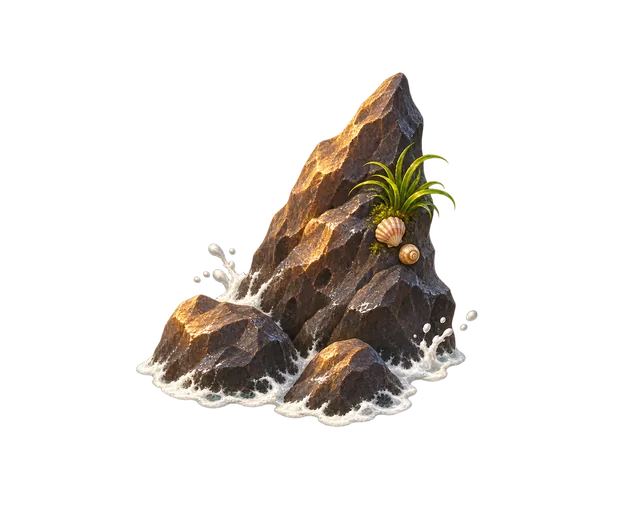
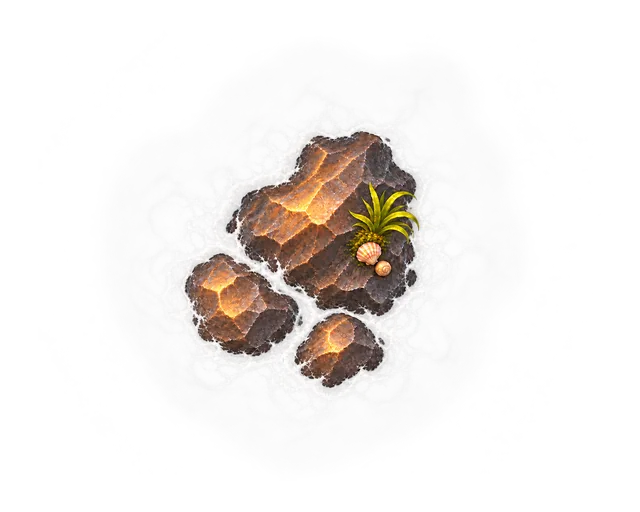
Récifs vue zénithale (écume peinte, effet de vague CSS retiré) ; oscillation 3D des cartouches sur l'axe Y

Changed region(s): [[0.2188, 0.125, 0.75, 0.8438]]

diff --git a/index.html b/index.html
@@ -151,6 +151,11 @@ img{max-width:100%;-webkit-user-drag:none;user-select:none;pointer-events:none}
 /* Inversé : la vague naît à la plage, claire, et part mourir vers le large */
 @keyframes shore{0%{transform:translate(-50%,-50%) scale(1.01);opacity:0}12%{opacity:.8}70%{opacity:.22}100%{transform:translate(-50%,-50%) scale(1.26);opacity:0}}
 .isle .land{z-index:2}.isle .lbl{z-index:4}/* au-dessus du pion navire (3) : la barque passe sous les cartouches */
+/* Légère oscillation 3D des cartouches sur l'axe Y (coupée d'office en animations réduites) */
+.isle .lbl,.coastport .lbl{perspective:420px}
+.isle .lbl b,.coastport .lbl b{animation:lblsway 5.5s ease-in-out infinite alternate}
+.isle:nth-child(odd) .lbl b{animation-delay:-2.7s;animation-duration:6.5s}
+@keyframes lblsway{from{transform:rotateY(-5deg)}to{transform:rotateY(5deg)}}
 /* La vague qui s'écrase : un voile d'écume PAR-DESSUS la frange basse de l'île, qui monte sur la plage
    quand l'onde touche la côte, puis s'estompe vite */
 .isle .wash{position:absolute;left:50%;top:44%;width:190px;height:190px;z-index:3;background:#fbfffd;
@@ -1070,11 +1075,8 @@ button.medal{display:block;padding:0;cursor:pointer}
 /* ---------- 1.5 : océan WebGL, îles sous l'orage, voiles flous, boutons, mouettes ---------- */
 .sea-gl{position:absolute;inset:0;width:100%;height:100%;display:block;pointer-events:none}
 .seagl .ocean{visibility:hidden}
-/* Récifs décoratifs : rochers qui dépassent de l'eau sur les bords de la carte, sous la teinte du jour et les cartouches.
-   Même écume animée que les îles, masquée par la silhouette du rocher, sur sa partie basse uniquement. */
+/* Récifs décoratifs (vue zénithale, écume peinte dans l'image) : posés sur les bords, sous la teinte du jour et les cartouches */
 .reef{position:absolute;transform:translate(-50%,-50%);pointer-events:none}
-.reef img{display:block;width:100%;height:100%}
-.reef::after{content:"";position:absolute;left:50%;top:50%;width:100%;height:100%;transform:translate(-50%,-50%);background:#fbfffd;-webkit-mask:var(--rimg) center/contain no-repeat,linear-gradient(180deg,transparent 52%,#000 76%);-webkit-mask-composite:source-in;mask:var(--rimg) center/contain no-repeat,linear-gradient(180deg,transparent 52%,#000 76%);mask-composite:intersect;filter:blur(3px);opacity:0;animation:shore 7s linear infinite;animation-delay:var(--rd,0s)}
 .reef.m{transform:translate(-50%,-50%) scaleX(-1)}
 .mstorm{position:absolute;width:0;height:0;pointer-events:none;z-index:2}
 .mstorm .fogpatch,.mstorm .bolt{max-width:none}
@@ -5849,7 +5851,7 @@ function renderMap() {
       <div class="coast" style="top:${CT}px;height:${CHF}px" aria-hidden="true"><img src="${IMG('port-coast')}" alt=""></div>
       <button class="coastport${S.port.includes('phare') ? ' phare' : ''}" style="left:${Math.round(CW * .6)}px;top:${Math.round(CT + CH * .26)}px;width:${Math.round(CW * .4)}px;height:${Math.round(CH * .48)}px" data-a="portisle" aria-label="Port d’attache"><span class="lbl"><b><span class="ti">Port d’attache</span></b></span></button>
       <button class="lair${krak ? ' won' : ''}" style="left:${W * .76}px;top:96px" data-a="lair" aria-label="${krak ? 'Repaire du Kraken' : 'Une île cachée dans le brouillard'}"><img src="${IMG('isle-kraken')}" alt="">${krak ? '<span class="lbl"><b><span class="ti">Repaire du Kraken</span></b></span>' : ''}</button>
-      ${[[93, 300, 'a', 86, 0], [6.5, 710, 'b', 66, 1], [93, 1160, 'c', 118, 0], [6, 1520, 'a', 74, 1], [94, 1830, 'b', 58, 0]].map(([x, y, f, w, m], k) => `<span class="reef${m ? ' m' : ''}" style="left:${W * x / 100}px;top:${y}px;width:${w}px;height:${Math.round(w * { a: .8, b: 1, c: .5 }[f])}px;--rimg:url(${IMG('deco-reef-' + f)});--rd:-${(k * 2.3 % 7).toFixed(1)}s" aria-hidden="true"><img src="${IMG('deco-reef-' + f)}" alt=""></span>`).join('')}
+      ${[[93, 300, 'a', 100, 0], [6.5, 710, 'b', 78, 1], [93, 1160, 'c', 134, 0], [6, 1520, 'a', 86, 1], [94, 1830, 'b', 68, 0]].map(([x, y, f, w, m]) => `<img class="reef${m ? ' m' : ''}" src="${IMG('deco-reef-' + f)}" alt="" style="left:${W * x / 100}px;top:${y}px;width:${w}px">`).join('')}
       <div class="mers" style="top:24px">Mers inexplorées</div>
       ${isleHTML}${fog}
       <div class="ripple" aria-hidden="true" style="left:${shx}px;top:${shy}px;--srot:${srot}deg;--simg:url(${IMG((paintDef()[4] || 'ship-skin-origine') + '-top')})"><i></i><i></i><span class="wk"><span class="bow"></span><span class="tr"></span><span class="tr t2"></span></span></div>

diff --git a/src/app.html b/src/app.html
@@ -122,6 +122,11 @@ img{max-width:100%;-webkit-user-drag:none;user-select:none;pointer-events:none}
 /* Inversé : la vague naît à la plage, claire, et part mourir vers le large */
 @keyframes shore{0%{transform:translate(-50%,-50%) scale(1.01);opacity:0}12%{opacity:.8}70%{opacity:.22}100%{transform:translate(-50%,-50%) scale(1.26);opacity:0}}
 .isle .land{z-index:2}.isle .lbl{z-index:4}/* au-dessus du pion navire (3) : la barque passe sous les cartouches */
+/* Légère oscillation 3D des cartouches sur l'axe Y (coupée d'office en animations réduites) */
+.isle .lbl,.coastport .lbl{perspective:420px}
+.isle .lbl b,.coastport .lbl b{animation:lblsway 5.5s ease-in-out infinite alternate}
+.isle:nth-child(odd) .lbl b{animation-delay:-2.7s;animation-duration:6.5s}
+@keyframes lblsway{from{transform:rotateY(-5deg)}to{transform:rotateY(5deg)}}
 /* La vague qui s'écrase : un voile d'écume PAR-DESSUS la frange basse de l'île, qui monte sur la plage
    quand l'onde touche la côte, puis s'estompe vite */
 .isle .wash{position:absolute;left:50%;top:44%;width:190px;height:190px;z-index:3;background:#fbfffd;
@@ -1041,11 +1046,8 @@ button.medal{display:block;padding:0;cursor:pointer}
 /* ---------- 1.5 : océan WebGL, îles sous l'orage, voiles flous, boutons, mouettes ---------- */
 .sea-gl{position:absolute;inset:0;width:100%;height:100%;display:block;pointer-events:none}
 .seagl .ocean{visibility:hidden}
-/* Récifs décoratifs : rochers qui dépassent de l'eau sur les bords de la carte, sous la teinte du jour et les cartouches.
-   Même écume animée que les îles, masquée par la silhouette du rocher, sur sa partie basse uniquement. */
+/* Récifs décoratifs (vue zénithale, écume peinte dans l'image) : posés sur les bords, sous la teinte du jour et les cartouches */
 .reef{position:absolute;transform:translate(-50%,-50%);pointer-events:none}
-.reef img{display:block;width:100%;height:100%}
-.reef::after{content:"";position:absolute;left:50%;top:50%;width:100%;height:100%;transform:translate(-50%,-50%);background:#fbfffd;-webkit-mask:var(--rimg) center/contain no-repeat,linear-gradient(180deg,transparent 52%,#000 76%);-webkit-mask-composite:source-in;mask:var(--rimg) center/contain no-repeat,linear-gradient(180deg,transparent 52%,#000 76%);mask-composite:intersect;filter:blur(3px);opacity:0;animation:shore 7s linear infinite;animation-delay:var(--rd,0s)}
 .reef.m{transform:translate(-50%,-50%) scaleX(-1)}
 .mstorm{position:absolute;width:0;height:0;pointer-events:none;z-index:2}
 .mstorm .fogpatch,.mstorm .bolt{max-width:none}
@@ -5820,7 +5822,7 @@ function renderMap() {
       <div class="coast" style="top:${CT}px;height:${CHF}px" aria-hidden="true"><img src="${IMG('port-coast')}" alt=""></div>
       <button class="coastport${S.port.includes('phare') ? ' phare' : ''}" style="left:${Math.round(CW * .6)}px;top:${Math.round(CT + CH * .26)}px;width:${Math.round(CW * .4)}px;height:${Math.round(CH * .48)}px" data-a="portisle" aria-label="Port d’attache"><span class="lbl"><b><span class="ti">Port d’attache</span></b></span></button>
       <button class="lair${krak ? ' won' : ''}" style="left:${W * .76}px;top:96px" data-a="lair" aria-label="${krak ? 'Repaire du Kraken' : 'Une île cachée dans le brouillard'}"><img src="${IMG('isle-kraken')}" alt="">${krak ? '<span class="lbl"><b><span class="ti">Repaire du Kraken</span></b></span>' : ''}</button>
-      ${[[93, 300, 'a', 86, 0], [6.5, 710, 'b', 66, 1], [93, 1160, 'c', 118, 0], [6, 1520, 'a', 74, 1], [94, 1830, 'b', 58, 0]].map(([x, y, f, w, m], k) => `<span class="reef${m ? ' m' : ''}" style="left:${W * x / 100}px;top:${y}px;width:${w}px;height:${Math.round(w * { a: .8, b: 1, c: .5 }[f])}px;--rimg:url(${IMG('deco-reef-' + f)});--rd:-${(k * 2.3 % 7).toFixed(1)}s" aria-hidden="true"><img src="${IMG('deco-reef-' + f)}" alt=""></span>`).join('')}
+      ${[[93, 300, 'a', 100, 0], [6.5, 710, 'b', 78, 1], [93, 1160, 'c', 134, 0], [6, 1520, 'a', 86, 1], [94, 1830, 'b', 68, 0]].map(([x, y, f, w, m]) => `<img class="reef${m ? ' m' : ''}" src="${IMG('deco-reef-' + f)}" alt="" style="left:${W * x / 100}px;top:${y}px;width:${w}px">`).join('')}
       <div class="mers" style="top:24px">Mers inexplorées</div>
       ${isleHTML}${fog}
       <div class="ripple" aria-hidden="true" style="left:${shx}px;top:${shy}px;--srot:${srot}deg;--simg:url(${IMG((paintDef()[4] || 'ship-skin-origine') + '-top')})"><i></i><i></i><span class="wk"><span class="bow"></span><span class="tr"></span><span class="tr t2"></span></span></div>
